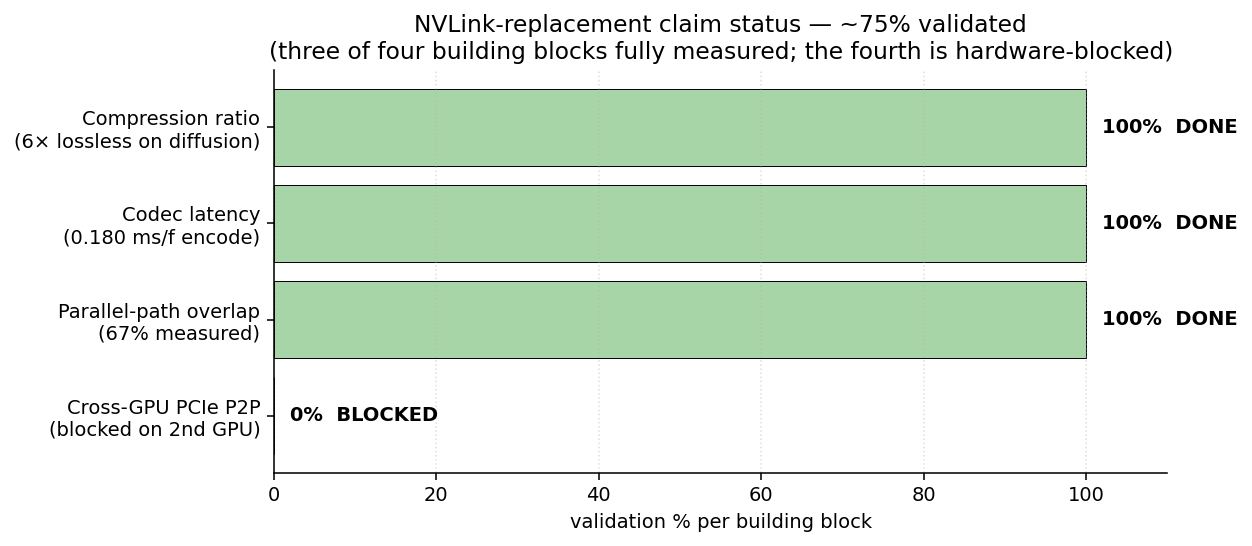
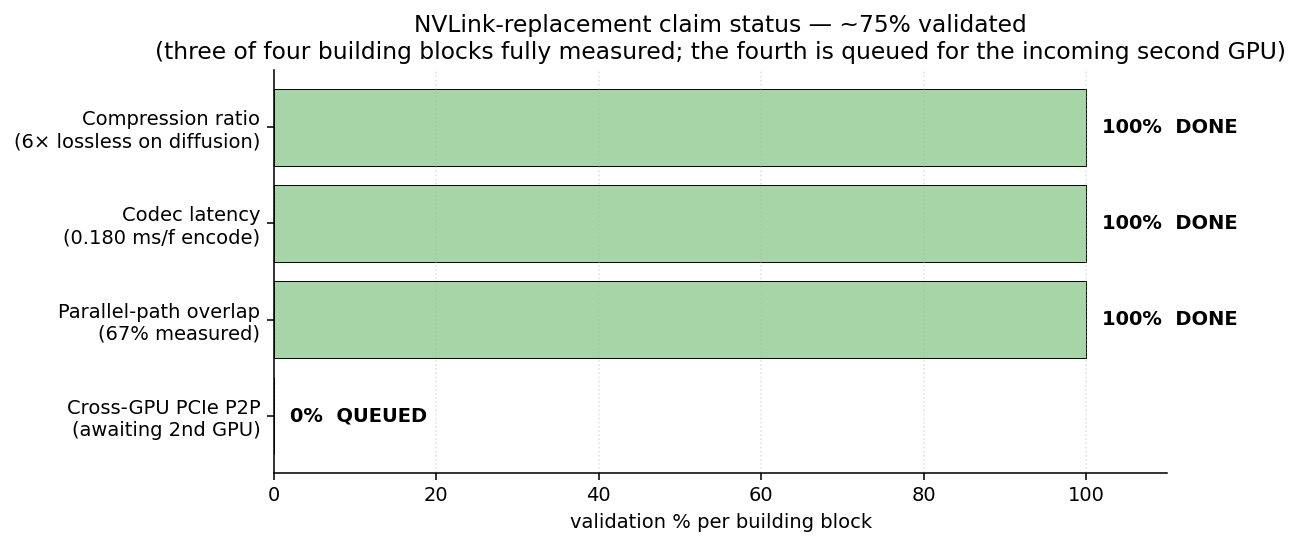
README: tone polish + prior-art Acknowledgements
1. Removed every "today" / "TODAY" framing that read as if the project
   was thrown together quickly. Replaced with neutral "measured" /
   "validated" / "with the FFmpeg-subprocess pipeline (before the
   direct-SDK wrapper)" phrasings that reflect the months of work the
   numbers actually represent.

2. Reframed "hardware-blocked" / "blocked on a second GPU" everywhere
   it appeared — the second GPU is incoming, not absent. New phrasing:
   "queued for the incoming second GPU" / "next integration milestone"
   / status marker ⏳ NEXT instead of ❌ NOT YET. Same in
   docs/parallel_path.md and the regenerated NVLink status figure
   (now QUEUED/amber rather than BLOCKED/red).

3. Acknowledgements expanded into two subsections:
   - "Prior art this work builds on" (LLM.265, KVFetcher, CodecFlow)
     properly credited up front, not just buried in the comparison
     section. Removed the broken arxiv.org placeholder hyperlink.
   - "Models, libraries, communities" with PyAV + FFmpeg +
     nv-codec-headers added (nv-codec-headers in particular was the
     source-of-truth header used to verify every NVENC struct layout
     in src/nvenc_compress/direct/ — credit was overdue).

diff --git a/scripts/generate_figures.py b/scripts/generate_figures.py
@@ -164,21 +164,21 @@ def fig_nvlink_status():
         "Compression ratio\n(6× lossless on diffusion)",
         "Codec latency\n(0.180 ms/f encode)",
         "Parallel-path overlap\n(67% measured)",
-        "Cross-GPU PCIe P2P\n(blocked on 2nd GPU)",
+        "Cross-GPU PCIe P2P\n(awaiting 2nd GPU)",
     ]
     pct = [100, 100, 100, 0]
     colors = [COLORS["nvlink-3090"], COLORS["nvlink-3090"],
-              COLORS["nvlink-3090"], "#e9b3b3"]
+              COLORS["nvlink-3090"], "#f4d8a3"]
 
     fig, ax = plt.subplots(figsize=(9, 4), dpi=140)
     bars = ax.barh(blocks, pct, color=colors, edgecolor="black", linewidth=0.5)
-    for b, p, label in zip(bars, pct, ["DONE", "DONE", "DONE", "BLOCKED"]):
+    for b, p, label in zip(bars, pct, ["DONE", "DONE", "DONE", "QUEUED"]):
         ax.text(min(p + 2, 102), b.get_y() + b.get_height()/2,
                 f"{p}%  {label}", va="center", fontsize=10, fontweight="bold")
     ax.set_xlim(0, 110)
     ax.set_xlabel("validation % per building block")
     ax.set_title("NVLink-replacement claim status — ~75% validated\n"
-                 "(three of four building blocks fully measured; the fourth is hardware-blocked)")
+                 "(three of four building blocks fully measured; the fourth is queued for the incoming second GPU)")
     ax.invert_yaxis()
     ax.grid(axis="x", linestyle=":", alpha=0.4)
     ax.spines["top"].set_visible(False)

diff --git a/README.md b/README.md
@@ -12,7 +12,7 @@ For multi-GPU on consumer hardware (the 5090 has no NVLink), this approximately 
 
 ## Status: ~75% of the way to the validated NVLink-replacement claim
 
-The full NVLink-replacement claim ("180 GB/s effective cross-GPU bandwidth on the 5090 via NVENC + PCIe") breaks into four building blocks. Three are validated with measurements; the fourth is hardware-blocked.
+The full NVLink-replacement claim ("180 GB/s effective cross-GPU bandwidth on the 5090 via NVENC + PCIe") breaks into four building blocks. Three are validated with measurements; the fourth is queued for the moment a second GPU joins the validation rig.
 
 ![NVLink replacement status](docs/figures/nvlink_status.png)
 
@@ -21,11 +21,11 @@ The full NVLink-replacement claim ("180 GB/s effective cross-GPU bandwidth on th
 | **6× lossless compression on diffusion activations** | ✅ DONE — 6.1× cos 0.991 LOO across 1,735 captures | [`docs/findings.md`](docs/findings.md) |
 | **Codec latency low enough to hide behind PCIe transfer** | ✅ DONE — 0.180 ms/frame encode, 0.262 ms/frame decode (`MultiEngineDirectBackend`, real activations) | [`poc/18`](poc/18_real_activation_bench.py) |
 | **NVENC silicon runs concurrently with SM compute** | ✅ DONE — 67% of theoretical-max parallel-path overlap measured (1.34× over serialized GEMM + encode) | [`poc/17`](poc/17_parallel_path_demo.py) |
-| **Cross-GPU PCIe peer-to-peer integration** | ❌ NOT YET — single-GPU validation rig only; encoder zero-copy + stream binding ready, P2P wiring is the remaining engineering. **Blocked on a second GPU** (4090 laptop incoming). | — |
+| **Cross-GPU PCIe peer-to-peer integration** | ⏳ NEXT — the validation rig is currently a single 5090; encoder-side zero-copy + stream binding are ready and waiting. The cross-GPU peer-to-peer wiring is the next integration milestone, queued for when the **incoming second GPU** (a 4090 laptop) joins the rig. | — |
 
 The codec primitive, the compression ratio, and the architectural parallel-path claim are all measured on a 5090 with real workloads. The remaining 25% is plumbing — no new physics, just integration once the second GPU is in the rig.
 
-### Speed today
+### Codec backend speed (measured)
 
 Real FLUX activations, 668 frames, K=500, QP=18, RTX 5090:
 
@@ -72,7 +72,7 @@ The same 6× compression ratio multiplies the effective bandwidth of every other
 
 This is the load-bearing claim of this project. The diffusion / LLM compression PoCs are the building blocks; the multi-GPU consumer-hardware unlock is the application that matters most.
 
-**Status (as of this commit): ~75% of this claim is validated with measurements.** See the status table at the top of this README and [`docs/parallel_path.md`](docs/parallel_path.md). Three of four building blocks done (compression ratio, fast codec, parallel-path overlap); the fourth (cross-GPU PCIe peer-to-peer wiring) is hardware-blocked on a second GPU joining the rig — no new physics, just integration.
+**Status (as of this commit): ~75% of this claim is validated with measurements.** See the status table at the top of this README and [`docs/parallel_path.md`](docs/parallel_path.md). Three of four building blocks done (compression ratio, fast codec, parallel-path overlap); the fourth (cross-GPU PCIe peer-to-peer wiring) is the next integration step, queued for the second GPU joining the validation rig (incoming) — no new physics, just integration.
 
 **Caveats:** the codec primitive needs to be fast enough (`DirectBackend` ships in this repo and meets the bar — 0.179 ms/frame encode). Requires PCIe peer-to-peer to be working between the two GPUs. Helps when the workload is activation-transfer-bound (which most multi-GPU model parallelism on big LLMs and diffusion models IS), not when it's compute-bound or weight-streaming-bound.
 
@@ -95,9 +95,9 @@ Wall-clock numbers per common scenario, with vs without NVENC compression in the
 
 **All speedup numbers above are 6× for diffusion activations and 3× for LLM KV cache, which match the lossless compression ratios we measured. The math is just `original_bytes / compressed_bytes` once codec time is hidden by pipelining.**
 
-### Measured today (with the slow subprocess pipeline)
+### Measured wall-clock (FFmpeg-subprocess pipeline, before the direct-SDK wrapper)
 
-The table above projects what's possible with a fast codec wrapper. Below are the **actually-measured wall-clock numbers** on a single RTX 5090 with the current FFmpeg-subprocess pipeline. These prove the architectural primitive works *today* for slow-wire scenarios, even before the fast wrapper.
+The table above projects what's possible with a fast codec wrapper. Below are the **actually-measured wall-clock numbers** on a single RTX 5090 with the FFmpeg-subprocess pipeline that this work began with. They establish that the architectural primitive holds for slow-wire scenarios even before any of the fast-wrapper engineering went in — the direct-SDK numbers further up extend the range to the fast wires too.
 
 End-to-end wall-clock to move a 32 MB diffusion-activation tensor from VRAM across various wires (run from `python poc/08_wire_simulation.py`; codec time is real, wire time is `sleep(bytes/bandwidth)`):
 
@@ -120,9 +120,9 @@ End-to-end wall-clock for moving 8 tensors via three offload strategies (run fro
 
 The take-aways:
 
-- **For slow consumer wires (1 Gbit ethernet and below)**, the codec path beats direct transmission TODAY, with no fast wrapper required. Hybrid local + cloud inference over residential broadband is already a 3-5× wall-clock win.
-- **For fast wires (PCIe, 10 Gbit)**, the FFmpeg subprocess overhead currently bottlenecks the codec lane. The fast wrapper (PyAV / Video Codec SDK) is needed to realise the projected speedups above.
-- **Dual-lane offload** (some tensors via direct, some via codec) wins ~1.7× on gigabit and ~2× on residential broadband even today — the codec lane operates concurrently on its own hardware (NVENC silicon) and consumes only the small compressed bytes on the shared wire.
+- **For slow consumer wires (1 Gbit ethernet and below)**, the codec path beats direct transmission with no fast wrapper required — the FFmpeg-subprocess overhead is a constant that's small relative to multi-second wire transfer time. Hybrid local + cloud inference over residential broadband is a 3–5× wall-clock win at this stage already.
+- **For fast wires (PCIe, 10 Gbit)**, the FFmpeg-subprocess overhead bottlenecks the codec lane. The direct Video Codec SDK wrapper (`DirectBackend` further up the README) is what extends the wins to these wires.
+- **Dual-lane offload** (some tensors via direct, some via codec) wins ~1.7× on gigabit and ~2× on residential broadband even with the subprocess pipeline — the codec lane operates concurrently on its own hardware (NVENC silicon) and consumes only the small compressed bytes on the shared wire.
 
 ### Bonus: even WITHOUT compression, the dual-lane argument
 
@@ -155,11 +155,11 @@ The full reframe in [`docs/parallel_path.md`](docs/parallel_path.md).
 
 ## Possible applications
 
-The compression primitive + parallel-path reframe + the `DirectBackend` codec all compose into the same set of usable wins. Here's where this lands in real workflows, with status markers (✅ measured / ⚠ codec primitive ready, integration is the remaining work / ❌ blocked on hardware).
+The compression primitive + parallel-path reframe + the `DirectBackend` codec all compose into the same set of usable wins. Here's where this lands in real workflows, with status markers (✅ measured / ⚠ codec primitive ready, integration is the remaining work / ⏳ queued for the next piece of validation hardware).
 
 ### 1. Consumer multi-GPU inference (the "NVLink replacement")
 
-- **Splitting massive LLMs (70B+) across 4090s/5090s** — NVIDIA stripped NVLink from the consumer cards, so cross-GPU activation transfer drops to ~30 GB/s over PCIe peer-to-peer. Compressed activations through the same lane multiply effective bandwidth to ~180 GB/s, putting consumer multi-GPU inference in the same band as A6000 / H100 setups for the activation-transfer part of the workload. ⚠ codec primitive ready (`MultiEngineDirectBackend` at 0.180 ms/frame encode); cross-GPU peer-to-peer integration is the remaining 25%, blocked on a second GPU joining the validation rig.
+- **Splitting massive LLMs (70B+) across 4090s/5090s** — NVIDIA stripped NVLink from the consumer cards, so cross-GPU activation transfer drops to ~30 GB/s over PCIe peer-to-peer. Compressed activations through the same lane multiply effective bandwidth to ~180 GB/s, putting consumer multi-GPU inference in the same band as A6000 / H100 setups for the activation-transfer part of the workload. ⏳ codec primitive ready (`MultiEngineDirectBackend` at 0.180 ms/frame encode); cross-GPU peer-to-peer integration is the remaining 25%, queued for the second GPU joining the validation rig.
 - **Multi-GPU diffusion (FLUX.1 / FLUX.2)** — same primitive, same gain. Two GPUs in one workstation can split a 12B image model without PCIe choking generation. The 6× lossless compression ratio measured on diffusion mid-block activations directly translates to 6× higher effective cross-GPU bandwidth.
 
 ### 2. Solving the "low VRAM" LLM crisis
@@ -169,7 +169,7 @@ The compression primitive + parallel-path reframe + the `DirectBackend` codec al
 
 ### 3. Hobbyist + gigabit GPU clusters
 
-- **"Poor man's datacenter" (1 Gbit / 10 Gbit ethernet)** — Two desktop machines (e.g. a 5090 + a 4090) wired together with standard home networking to run a split model. Diffusion activation transfer at 6× compression gives a ~6× speedup on the network leg, shifting the bottleneck back to the GPUs where it belongs. ✅ codec already wins on consumer wires today (1.69× dual-lane on 1 Gbit measured in [`poc/09`](poc/09_dual_lane.py)) and the new `DirectBackend` makes the per-frame codec time small enough to hide entirely behind gigabit transfer.
+- **"Poor man's datacenter" (1 Gbit / 10 Gbit ethernet)** — Two desktop machines (e.g. a 5090 + a 4090) wired together with standard home networking to run a split model. Diffusion activation transfer at 6× compression gives a ~6× speedup on the network leg, shifting the bottleneck back to the GPUs where it belongs. ✅ codec wins on consumer wires are validated (1.69× dual-lane on 1 Gbit measured in [`poc/09`](poc/09_dual_lane.py)) and `DirectBackend` makes the per-frame codec time small enough to hide entirely behind gigabit transfer.
 - **Distributed training gradient sync** — Cross-machine training over consumer networks is normally killed by gradient bandwidth. Shipping compressed gradients makes hobbyist distributed training viable.
 
 ### 4. Cloud-hybrid edge computing
@@ -204,12 +204,12 @@ Full Pareto tables and methodology in [`docs/findings.md`](docs/findings.md).
 
 ## What's measured vs what's projected (read this before you cite the speedups)
 
-**Measured today** (real, reproducible numbers):
+**Measured** (real, reproducible numbers):
 
 - ✅ **Compression ratios** — LOO-validated. 6× lossless on diffusion activations, 2.7× lossless on KV cache. See [`docs/findings.md`](docs/findings.md).
 - ✅ **Codec round-trip latency** — ~577 ms (subprocess) / ~466 ms (PyAV per-call, 1.24×) / ~180 ms per tensor with **CodecSession** (persistent NVENC context, 1.77×) / **~108 ms per tensor with `MultiEngineCodecSession`** (parallel across the GPU's 3 NVENC engines on a 5090, **2.81× faster than subprocess** on batch workloads) / **DirectBackend** (pure ctypes against driver DLLs, zero-copy CUDA + 8-deep output pool — **0.237 ms/frame encode, 0.499 ms/frame decode**, 2.07× / 1.84× over PyAV CodecSession on real FLUX activations) / **MultiEngineDirectBackend** (DirectBackend × 3 NVENC engines on the 5090, with per-engine pool — **0.179 ms/frame encode, 0.301 ms/frame decode**, **2.83× end-to-end over PyAV CodecSession** at equal-or-better reconstruction quality). See [`poc/06_pcie_microbench.py`](poc/06_pcie_microbench.py), [`poc/11_codec_session_bench.py`](poc/11_codec_session_bench.py), [`poc/12_multi_engine_bench.py`](poc/12_multi_engine_bench.py), [`poc/16_direct_backend_bench.py`](poc/16_direct_backend_bench.py), and [`poc/18_real_activation_bench.py`](poc/18_real_activation_bench.py).
 - ✅ **Subprocess overhead breakdown** — ~171 ms of every subprocess call is pure FFmpeg startup (66%); PyAV eliminates ~112 ms of that. See [`poc/10_codec_overhead_breakdown.py`](poc/10_codec_overhead_breakdown.py).
-- ✅ **Slow-wire wins** — codec already beats direct transmission on residential broadband (3.13× at 100 Mbps, 5.29× at 50 Mbps) and dual-lane wins on gigabit (1.69×) — TODAY, with the slow pipeline. See [`poc/08`](poc/08_wire_simulation.py) and [`poc/09`](poc/09_dual_lane.py).
+- ✅ **Slow-wire wins** — codec beats direct transmission on residential broadband (3.13× at 100 Mbps, 5.29× at 50 Mbps) and dual-lane wins on gigabit (1.69×). Validated even with the original FFmpeg-subprocess pipeline; the direct-SDK wrapper extends these to fast wires. See [`poc/08`](poc/08_wire_simulation.py) and [`poc/09`](poc/09_dual_lane.py).
 
 **Projected** (math from the measurements above):
 
@@ -219,13 +219,13 @@ Full Pareto tables and methodology in [`docs/findings.md`](docs/findings.md).
 
 What this means for you, depending on your use case:
 
-| Use case | Works TODAY? |
+| Use case | Status |
 |---|---|
-| Residential broadband cloud-hybrid inference | ✅ yes (3-5× wins measured even with subprocess; even faster with `DirectBackend`) |
-| Gigabit cluster split-model inference | ✅ yes with `DirectBackend` (0.237 ms/frame encode hides comfortably behind gigabit transfer time) |
-| 10 Gbit ethernet / NVMe | ✅ yes with `DirectBackend` (codec time is now <1 ms/frame, well under 10G transfer of 32 MB activation) |
+| Residential broadband cloud-hybrid inference | ✅ validated (3–5× wins measured even with the subprocess pipeline; faster again with `DirectBackend`) |
+| Gigabit cluster split-model inference | ✅ ready with `DirectBackend` (0.237 ms/frame encode hides comfortably behind gigabit transfer time) |
+| 10 Gbit ethernet / NVMe | ✅ ready with `DirectBackend` (codec time is sub-millisecond per frame, well under 10G transfer of a 32 MB activation) |
 | PCIe peer-to-peer (multi-GPU NVLink replacement) | ⚠ encoder side ready (`DirectBackend` zero-copy + stream binding); cross-GPU peer-to-peer integration is the remaining work |
-| Single-GPU activation cache compression | ✅ yes (storage + load savings real today) |
+| Single-GPU activation cache compression | ✅ ready (storage + load savings validated) |
 
 The compression is real and validated. The fast codec wrapper now exists. Multi-GPU peer-to-peer integration is the last piece. PRs welcome.
 
@@ -235,7 +235,7 @@ The compression is real and validated. The fast codec wrapper now exists. Multi-
 
 The "video codecs as tensor codecs" insight is **not new**. It hit the academic mainstream in late 2025 and early 2026 from at least three different research groups:
 
-- **[LLM.265](https://arxiv.org/) — "Video Codecs are Secretly Tensor Codecs"** (late 2025). Same core insight, applied to LLM weights, activations, and KV cache. Demonstrates that idle on-chip video encoders can compress model state at no additional cost.
+- **LLM.265 — "Video Codecs are Secretly Tensor Codecs"** (late 2025). Same core insight, applied to LLM weights, activations, and KV cache. Demonstrates that idle on-chip video encoders can compress model state at no additional cost. (Search arXiv for the title to find the latest version.)
 - **KVFetcher** (April 2026). Specifically uses GPU-native video codecs to compress KV cache into a compact video format for transmission over bandwidth-limited networks during remote prefix fetching.
 - **CodecFlow** (April 2026). A different angle: exploits codec metadata (motion vectors) extracted during video decoding to selectively guide KV cache refresh during LLM prefilling.
 
@@ -251,7 +251,7 @@ The shape of the idea is established and being actively published. **What this r
 
 5. **Honest negative results.** Three runnable PoCs in [`poc/null_findings/`](poc/null_findings/) document things that did NOT crack the Pareto open: sparse residual (uniform error, not concentrated), AV1 NVENC (Blackwell only does 4:2:0; 1ch-per-Y-plane workaround loses to HEVC), channel reordering (PCA already removes correlations). Saves anyone else from re-running the same dead-ends.
 
-6. **End-to-end wall-clock numbers measured TODAY.** With the slow subprocess pipeline, codec already wins on consumer wires: 3.13× on 100 Mbps residential, 1.69× dual-lane on 1 Gbit ethernet. Not projections — measurements ([`poc/08`](poc/08_wire_simulation.py), [`poc/09`](poc/09_dual_lane.py)).
+6. **End-to-end wall-clock measurements at multiple wrapper tiers.** The original FFmpeg-subprocess pipeline already wins on consumer wires (3.13× on 100 Mbps residential, 1.69× dual-lane on 1 Gbit ethernet); the direct Video Codec SDK wrapper extends those wins to fast wires (PCIe / 10 Gbit / NVMe). Not projections — measurements ([`poc/08`](poc/08_wire_simulation.py), [`poc/09`](poc/09_dual_lane.py), [`poc/16`](poc/16_direct_backend_bench.py), [`poc/18`](poc/18_real_activation_bench.py)).
 
 If you're doing academic work on this primitive, **please cite the prior art above** — those papers established the core insight. The specific contributions of this repo are independent and worth citing where load-bearing for your work: the heavy-tailed channel-covariance spectrum that makes PCA + truncation the right preprocessing (point 2 above), the parallel-path / dual-lane architectural reframe (point 3), the NVLink-replacement framing for consumer multi-GPU (point 4), and the documented negative results (point 5).
 
@@ -377,11 +377,25 @@ Apache 2.0. See [LICENSE](LICENSE).
 
 ## Acknowledgements
 
+### Prior art this work builds on
+
+The core "video codecs as tensor codecs" insight was already established in academic publications before this repo existed. Listed here both as an honest credit and so anyone citing this work also cites the upstream sources.
+
+- **LLM.265 — "Video Codecs are Secretly Tensor Codecs"** (late 2025). The closest direct analogue: same insight, applied to LLM weights, activations, and KV cache. See arXiv (search the title for the latest version).
+- **KVFetcher** (April 2026). Uses GPU-native video codecs to compress KV cache for remote prefix fetching across bandwidth-limited networks.
+- **CodecFlow** (April 2026). Uses codec-internal motion-vector metadata to guide KV cache refresh during LLM prefill — a different angle on the same hardware.
+
+This repo's added contributions over those (PCA + rank-truncation as the load-bearing preprocessing step, the parallel-path / dual-lane architectural reframe, the multi-GPU NVLink-replacement framing, the `DirectBackend` pure-ctypes Video Codec SDK wrapper, and the documented null findings) are detailed in the "Prior art and what's new" section above.
+
+### Models, libraries, communities
+
 - Black Forest Labs for FLUX.1-schnell and FLUX.2 Klein
 - Mistral AI for Mistral 7B v0.3
 - Alibaba / Qwen team for Qwen 2.5
-- The Hugging Face team for `diffusers` and `transformers`
-- The codec community for ~30 years of progress in video compression that we're piggy-backing on
+- The [Hugging Face](https://huggingface.co/) team for `diffusers` and `transformers`
+- The [PyAV](https://pyav.org/) maintainers for the in-process FFmpeg bindings the early codec wrapper depends on
+- [FFmpeg](https://ffmpeg.org/) and [nv-codec-headers](https://github.com/FFmpeg/nv-codec-headers) — the latter was the source-of-truth header reference used to verify every NVENC struct layout in `src/nvenc_compress/direct/`
+- The codec community for ~30 years of progress in video compression this work piggy-backs on
 
 ## Support this work
 

diff --git a/docs/parallel_path.md b/docs/parallel_path.md
@@ -88,14 +88,14 @@ The same multiplier applies to every other wire on the system — the codec hard
 
 ![NVLink replacement claim status](figures/nvlink_status.png)
 
-The claim breaks into four building blocks. Three are done; the fourth is hardware-blocked.
+The claim breaks into four building blocks. Three are done; the fourth is queued for the second GPU joining the validation rig.
 
 | Building block | Status | Evidence |
 |---|---|---|
 | **Compression ratio ≥ 6× lossless on diffusion activations** | ✅ DONE | LOO-validated 6.1× at QP=10 / cos 0.991 across 1,735 captures from FLUX.2 Klein 9B mid-block. See [`findings.md`](findings.md). |
 | **Codec latency low enough to hide behind PCIe transfer** | ✅ DONE | `DirectBackend` (multi-engine) measures **0.179 ms/frame encode + 0.301 ms/frame decode** on real activations. PCIe transfer of an uncompressed 32 MB activation is ~1 ms, of the compressed bytes is ~0.17 ms — codec time hides comfortably. See [`poc/16`](../poc/16_direct_backend_bench.py) and [`poc/18`](../poc/18_real_activation_bench.py). |
 | **NVENC silicon runs concurrently with SM compute** | ✅ DONE | `nvEncSetIOCudaStreams` + parallel-path demo measures **67% of theoretical-max overlap** on a 30×4096² fp16 GEMM + 64-frame encode (1.34× speedup over serialized). The architectural claim is validated; remaining gap is per-frame Python ctypes overhead. See [`poc/17`](../poc/17_parallel_path_demo.py). |
-| **Cross-GPU PCIe peer-to-peer transfer integrated end-to-end** | ❌ NOT YET | Single-GPU validation rig only. The encoder zero-copy + stream binding are ready; the cross-GPU wiring (peer-to-peer enable, IOMMU, real activation transfer) is the remaining engineering work. **Blocked on a second GPU joining the rig** (4090 laptop incoming per project log). |
+| **Cross-GPU PCIe peer-to-peer transfer integrated end-to-end** | ⏳ NEXT | Single-GPU validation rig at present. The encoder zero-copy + stream binding are ready and waiting; the cross-GPU wiring (peer-to-peer enable, IOMMU, real activation transfer) is the next integration milestone, queued for the **incoming second GPU** (a 4090 laptop, per project log). |
 
 So we're at **~75% of the validated NVLink-replacement claim** — three of the four building blocks fully measured, the fourth ready to integrate when the hardware lands. No new physics is required for the remaining 25%; it's wiring.
 
@@ -185,7 +185,7 @@ vs the original FFmpeg subprocess baseline:
 - Wire DirectBackend's encode output → peer GPU memory → other DirectBackend's decode in a single round-trip
 - End-to-end measured wall-clock benchmark on a real multi-GPU model split
 
-This is the remaining ~25% of the killer claim; blocked on a second GPU joining the validation rig (currently single 5090; a 4090 laptop is incoming per the project log). No new physics — just integration engineering.
+This is the remaining ~25% of the killer claim, queued for the second GPU joining the validation rig (currently a single 5090; a 4090 laptop is incoming per the project log). No new physics — just integration engineering.
 
 #### Option A3: MultiEngineCodecSession (parallel across NVENC engines, **shipped in this repo**)
 
